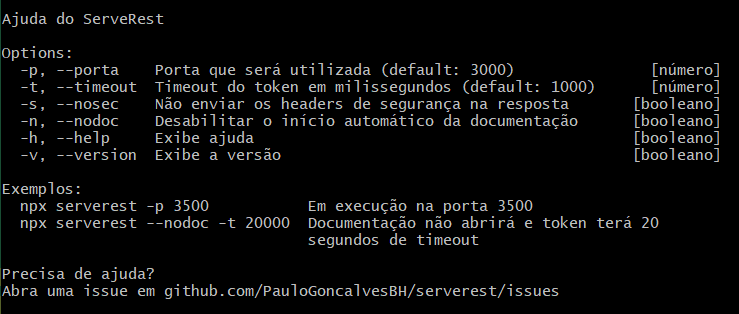
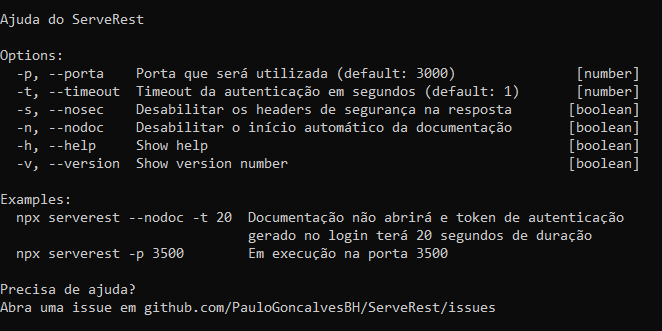
feat(conf): timeout de token alterado de milissegundos para segundos
Essa alteração vai tornar mais fácil informar tempos maiores, como 1 minuto ou 1 hora. Não havia
ganho em utilizar milissegundos.

diff --git a/src/server.js b/src/server.js
@@ -24,11 +24,11 @@ const argv = require('yargs')
   .alias('v', 'version')
   .usage('\nAjuda do ServeRest')
   .describe('p', 'Porta que será utilizada (default: 3000)')
-  .describe('t', 'Timeout do token em milissegundos (default: 1000)')
-  .describe('s', 'Não enviar os headers de segurança na resposta')
+  .describe('t', 'Timeout da autenticação em segundos (default: 1)')
+  .describe('s', 'Desabilitar os headers de segurança na resposta')
   .describe('n', 'Desabilitar o início automático da documentação')
+  .example('npx serverest --nodoc -t 20', 'Documentação não abrirá e token de autenticação gerado no login terá 20 segundos de duração')
   .example('npx serverest -p 3500', 'Em execução na porta 3500')
-  .example('npx serverest --nodoc -t 20000', 'Documentação não abrirá e token terá 20 segundos de timeout')
   .help('h')
   .epilog('Precisa de ajuda?')
   .epilog('Abra uma issue em github.com/PauloGoncalvesBH/ServeRest/issues')

diff --git a/src/services/auth-service.js b/src/services/auth-service.js
@@ -7,7 +7,7 @@ const { conf } = require('../utils/conf')
 const PRIVATE_KEY = 'f5b99242-6504-4ca3-90f2-05e78e5761ef'
 
 function createToken (emailSenha) {
-  return jwt.sign(emailSenha, PRIVATE_KEY, { expiresIn: `${conf.tokenTimeout}ms` })
+  return jwt.sign(emailSenha, PRIVATE_KEY, { expiresIn: `${conf.tokenTimeout}s` })
 }
 
 function verifyToken (authorization) {

diff --git a/src/utils/conf.js b/src/utils/conf.js
@@ -2,7 +2,7 @@
 
 const conf = {
   porta: 3000,
-  tokenTimeout: 1000
+  tokenTimeout: 1
 }
 
 module.exports = { conf }
